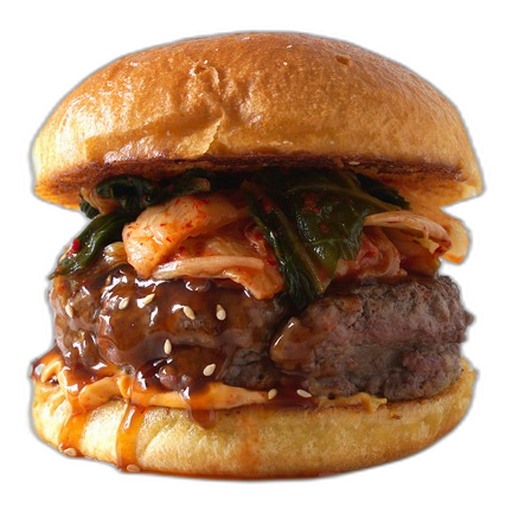
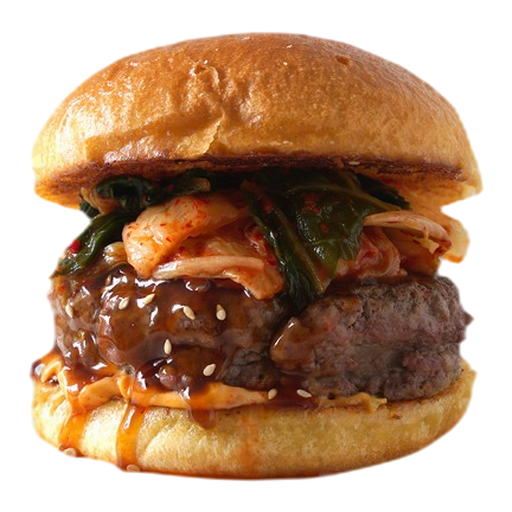
edit: 감자튀김과 불고기 버거 이미지 다듬기 [1번]

diff --git a/Assets/JeongWoo/Editor/JWKiosk.cs b/Assets/JeongWoo/Editor/JWKiosk.cs
@@ -110,11 +110,11 @@ static class JWKiosk
             Picture(root.transform, "Btn_hero/Img", "burger_bulgogi.png");
             Picture(root.transform, "Ad/Btn_ad/Img", "burger_double.png");
         });
-        Edit("upsell", root => Picture(root.transform, "Art", "fries.jpg"));
+        Edit("upsell", root => Picture(root.transform, "Art", "fries.png"));
         Edit("cart", root =>
         {
             Picture(root.transform, "Btn_promo/Art", "burger_double.png");
-            Picture(root.transform, "Btn_rec0/Art", "fries.jpg");
+            Picture(root.transform, "Btn_rec0/Art", "fries.png");
             Picture(root.transform, "Btn_rec1/Art", "nuggets.png");
             Picture(root.transform, "Btn_rec2/Art", "cola.png");
             Picture(root.transform, "Btn_rec3/Art", "softcone.png");
